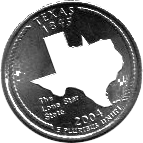
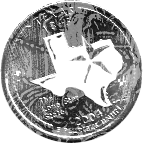
More improvements to reflection timing, more detailed reflection masks.

diff --git a/coin.php b/coin.php
@@ -5,6 +5,13 @@ include('_header.php');
 
 	<style type="text/css">
 		body {width: 720px; }
+		
+		/* -- fallback behavior -- */
+		html.no-csstransforms3d p#fallback {display: block; float: right; width: 500px; padding-top: 20px; }
+
+		/* -- The fun stuff -- */		
+		html.csstransforms3d p#fallback {display: none; }
+		
 		.coin {
 			float: left;
 			width: 143px;
@@ -96,8 +103,8 @@ include('_header.php');
 		.coin .tails .reflection {
 			background-position-y: 200px;
 			-webkit-mask: url('/images/coin-mask-tails.png') left top;
-			-webkit-transition: all .5s ease-in-out;
-			-webkit-transition-delay: .6s;
+			-webkit-transition: all .35s ease-in-out;
+			-webkit-transition-delay: .65s;
 		}
 		.coin.flip .tails .reflection {
 			background-position-y: -100px;
@@ -118,10 +125,6 @@ include('_header.php');
 <body>
 
 	<h1><a href="http://css3playground.com">css3</a> // <?= $title ?></h1>
-	<p class="warning">
-		As of <?= date("F jS, Y") ?> the 3D transforms in this demo only work using <a href="http://www.apple.com/safari/">Safari 5</a>, <a href="http://www.google.com/chrome">Chrome</a> 10+ or the <a href="http://nightly.webkit.org/">WebKit Nightly build</a>.
-		Browsers without 3D acceleration just switch the z-index. You won't lose any functionality!
-	</p>
 	
 	<p class="instructions"><b>Click or tap the coin.</b> It is using <code>-webkit-transform: rotateY() and rotateX();</code> with some of the 3D settings: <code>-webkit-transform-style: preserve3d;</code> and <code>-webkit-transform-perspective</code></p>
 	<p class="instructions">The reflections use plain ol' <code>background-position</code> along with <code>-webkit-transition</code> and <code>-webkit-mask</code> to give the reflection some texture.</p>
@@ -131,5 +134,7 @@ include('_header.php');
 		<aside class="heads"><div class="reflection"></div></aside>
 		<aside class="tails"><div class="reflection"></div></aside>
 	</div>
+
+	<p class="instructions" id="fallback"><b>If you can read this, it means your browser cannot process the 3D transforms on this page.</b> The coin will switch faces with no visual transition.<br><br>If you want to see the goods, download <a href="http://www.apple.com/safari/">Safari 5</a>, <a href="http://www.google.com/chrome">Chrome</a> 10+ or the <a href="http://nightly.webkit.org/">WebKit Nightly build</a>.</p>
 	
 <? include('_footer.php') ?>
